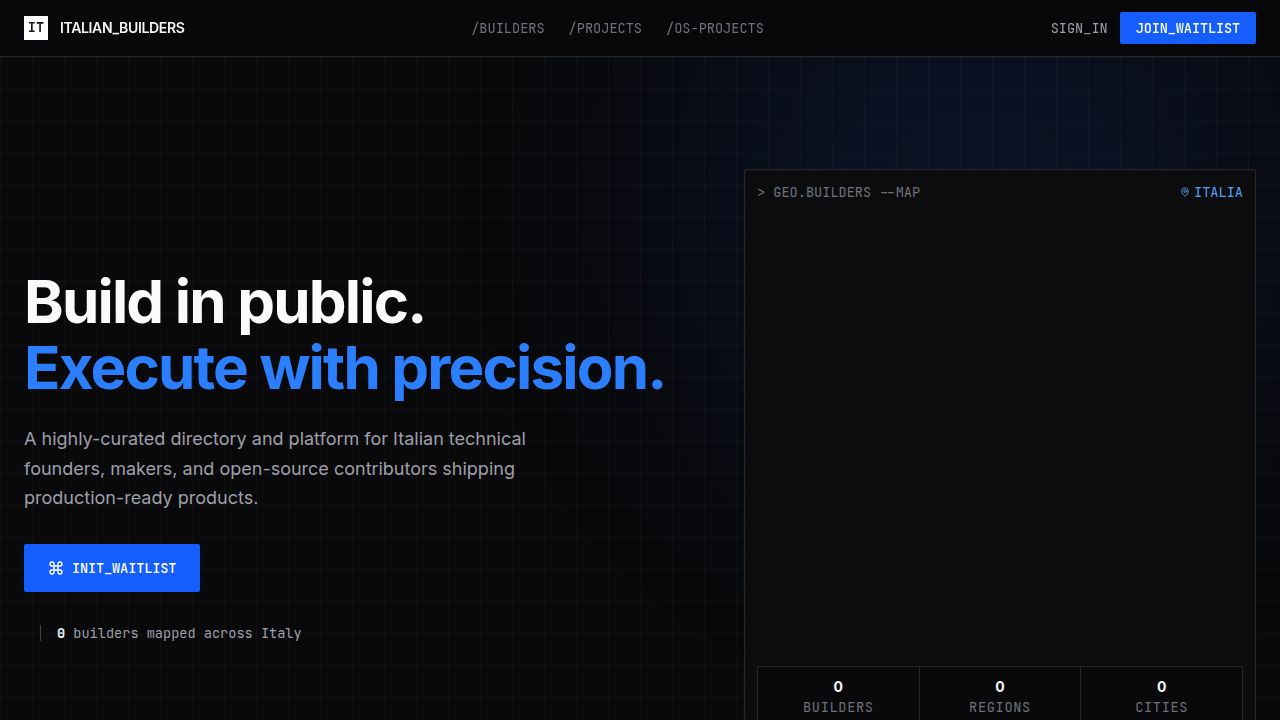
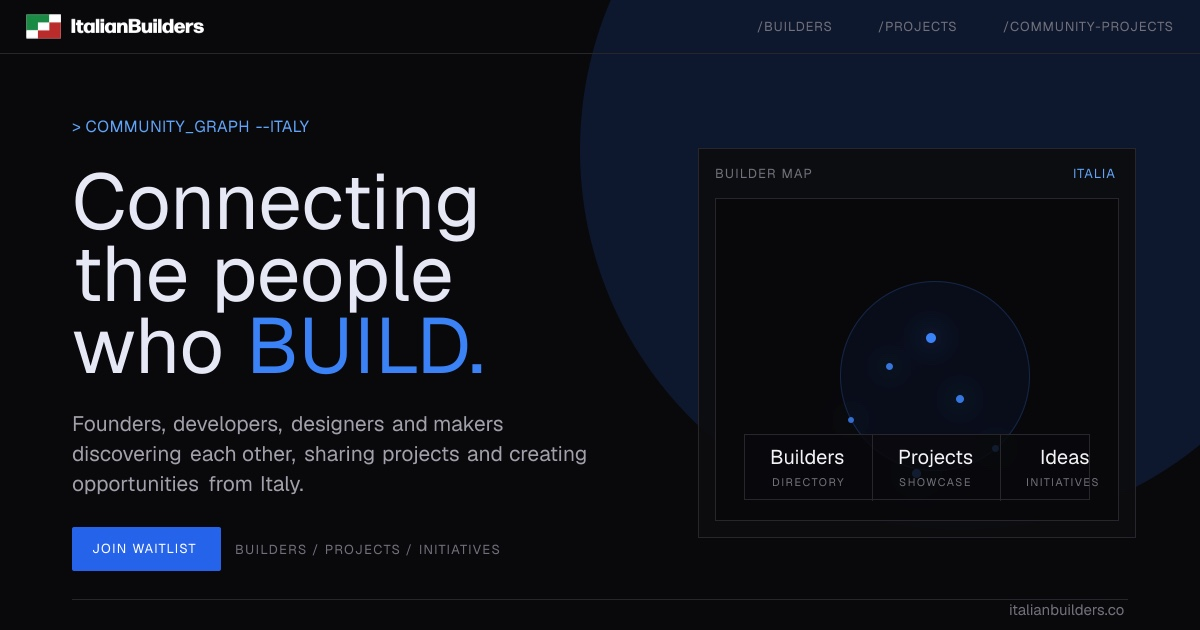
Refresh Italian Builders homepage branding

diff --git a/artifacts/italian-builders/src/index.css b/artifacts/italian-builders/src/index.css
@@ -1,4 +1,4 @@
-@import url('https://fonts.googleapis.com/css2?family=JetBrains+Mono:wght@400;500;700&family=Inter:wght@400;500;600;700&display=swap');
+@import url("https://use.typekit.net/kkh2lui.css");
 @import "tailwindcss";
 @import "tw-animate-css";
 @plugin "@tailwindcss/typography";
@@ -137,9 +137,9 @@
   --chart-4: 43 74% 66%;
   --chart-5: 27 87% 67%;
 
-  --app-font-sans: 'Inter', sans-serif;
+  --app-font-sans: "forma-djr-display", Inter, sans-serif;
   --app-font-serif: Georgia, serif;
-  --app-font-mono: 'JetBrains Mono', monospace;
+  --app-font-mono: "forma-djr-mono", "JetBrains Mono", monospace;
   --radius: .5rem;
   --shadow-2xs: 0px 2px 0px 0px hsl(202.8169 89.1213% 53.1373% / 0.00);
   --shadow-xs: 0px 2px 0px 0px hsl(202.8169 89.1213% 53.1373% / 0.00);
@@ -215,24 +215,50 @@
 }
 
 .dark-technical-theme {
-  font-family: 'Inter', sans-serif;
+  font-family: "forma-djr-display", Inter, sans-serif;
   background-color: #09090b;
   color: #e4e4e7;
   -webkit-font-smoothing: antialiased;
 }
 
+.dark-technical-theme,
+.dark-technical-theme button,
+.dark-technical-theme input,
+.dark-technical-theme select,
+.dark-technical-theme textarea {
+  font-family: "forma-djr-display", Inter, sans-serif;
+}
+
 .dark-technical-theme h1,
-.dark-technical-theme h2,
+.dark-technical-theme h2 {
+  font-family: "forma-djr-display", Inter, sans-serif;
+  font-weight: 900;
+  letter-spacing: 0;
+}
+
 .dark-technical-theme h3,
 .dark-technical-theme h4,
 .dark-technical-theme h5 {
-  font-family: 'Inter', sans-serif;
-  letter-spacing: -0.03em;
+  font-family: "forma-djr-display", Inter, sans-serif;
+  font-weight: 700;
+  letter-spacing: 0;
 }
 
 .dark-technical-theme .font-mono {
-  font-family: 'JetBrains Mono', monospace;
+  font-family: "forma-djr-mono", "JetBrains Mono", monospace;
   font-size: 0.85em;
+}
+
+.dt-logo {
+  display: block;
+  height: 28px;
+  width: auto;
+}
+
+.dt-logo-footer {
+  display: block;
+  height: 24px;
+  width: auto;
 }
 
 .dt-grid-bg {
@@ -270,6 +296,15 @@
   font-weight: 600;
 }
 
+.dt-tag,
+.dt-badge {
+  font-family: "gridlite-pe-variable", "forma-djr-mono", sans-serif;
+  font-variation-settings: "BACK" 1, "ELSH" 3, "RECT" 1, "wght" 900;
+  font-weight: 900;
+  letter-spacing: 0.06em;
+  text-transform: uppercase;
+}
+
 .dt-scrollbar::-webkit-scrollbar {
   width: 4px;
   height: 4px;
@@ -303,4 +338,3 @@
     pointer-events: none;
   }
 }
-

diff --git a/artifacts/italian-builders/src/pages/Home.tsx b/artifacts/italian-builders/src/pages/Home.tsx
@@ -325,15 +325,12 @@ export function Header() {
   return (
     <header className="sticky top-0 z-50 w-full border-b border-zinc-800 bg-zinc-950/90 backdrop-blur-sm">
       <div className="container mx-auto px-4 md:px-6 h-14 flex items-center justify-between">
-        <a href="/" className="flex items-center gap-3">
-          <div className="w-6 h-6 bg-white text-zinc-900 flex items-center justify-center font-mono text-xs font-bold leading-none">
-            IT
-          </div>
-          <span
-            className={`font-semibold text-sm tracking-tight text-zinc-100 ${techLabels ? "uppercase" : ""}`}
-          >
-            {techLabels ? "Italian Builders" : "Italian Builders"}
-          </span>
+        <a href="/" className="flex items-center">
+          <img
+            src="/logo-vector.svg"
+            alt="Italian Builders"
+            className="dt-logo"
+          />
         </a>
 
         {/* Desktop Nav */}
@@ -949,12 +946,12 @@ function Hero({ content }: { content: HomeDatabaseContent }) {
       <div className="container mx-auto px-4 md:px-6 relative z-10">
         <div className="flex flex-col lg:flex-row gap-12 xl:gap-16 items-center">
           <div className="flex-1 lg:flex-[0.9] max-w-2xl">
-            <h1 className="text-4xl md:text-6xl font-bold text-zinc-50 mb-6 leading-[1.1] tracking-tight">
-              The home of Italian Builders.
+            <h1 className="text-[4.25rem] md:text-[7.5rem] font-black text-zinc-100 mb-8 leading-[0.92]">
+              Connecting
               <br />
-              <span className="text-blue-500">
-                Connecting the people who build.
-              </span>
+              the people
+              <br />
+              who <span className="text-blue-500 uppercase">build.</span>
             </h1>
 
             <p className="text-base md:text-lg text-zinc-400 mb-8 max-w-xl leading-relaxed">
@@ -1193,7 +1190,7 @@ export function FeaturedBuilders({
                     {profileTags(profile).map((tag) => (
                       <span
                         key={tag}
-                        className="px-1.5 py-0.5 border border-zinc-800 bg-zinc-900 text-[10px] font-mono font-medium text-zinc-400 uppercase rounded-sm"
+                        className="dt-tag px-1.5 py-0.5 border border-zinc-800 bg-zinc-900 text-[10px] text-zinc-400 rounded-sm"
                       >
                         {tag}
                       </span>
@@ -1285,7 +1282,7 @@ export function BuilderProjects({
                 setActive(cat);
                 setShowAll(false);
               }}
-              className={`px-3 py-1 text-xs font-mono uppercase border transition-colors flex-shrink-0 rounded-sm ${
+              className={`dt-tag px-3 py-1 text-xs border transition-colors flex-shrink-0 rounded-sm ${
                 active === cat
                   ? "bg-blue-600 text-white border-blue-600"
                   : "bg-zinc-950 text-zinc-400 border-zinc-800 hover:border-zinc-600"
@@ -1324,7 +1321,7 @@ export function BuilderProjects({
                   )}
                   <div className="absolute top-2 right-2">
                     <span
-                      className={`px-2 py-1 text-[10px] font-mono font-bold uppercase border rounded-sm ${statusColor(project.status)} backdrop-blur-sm`}
+                      className={`dt-tag px-2 py-1 text-[10px] border rounded-sm ${statusColor(project.status)} backdrop-blur-sm`}
                     >
                       {project.status}
                     </span>
@@ -1337,7 +1334,7 @@ export function BuilderProjects({
                       {project.name}
                     </h3>
                     {project.category && (
-                      <span className="text-[10px] font-mono text-zinc-500 border border-zinc-800 px-1.5 py-0.5 bg-zinc-900 rounded-sm">
+                      <span className="dt-tag text-[10px] text-zinc-500 border border-zinc-800 px-1.5 py-0.5 bg-zinc-900 rounded-sm">
                         {project.category}
                       </span>
                     )}
@@ -1449,7 +1446,7 @@ export function CommunityProjects({
                     >
                       <Icon size={16} />
                     </div>
-                    <span className="text-[10px] font-mono border border-zinc-800 bg-zinc-900 px-1.5 py-0.5 text-zinc-500 uppercase rounded-sm">
+                    <span className="dt-tag text-[10px] border border-zinc-800 bg-zinc-900 px-1.5 py-0.5 text-zinc-500 rounded-sm">
                       {project.status}
                     </span>
                   </div>
@@ -1464,7 +1461,7 @@ export function CommunityProjects({
                   </p>
 
                   <div className="flex items-center justify-between text-xs font-mono text-zinc-500 pt-4 border-t border-zinc-800">
-                    <span className="uppercase">
+                    <span className="dt-tag">
                       {project.category || "Community"}
                     </span>
                     <span className="text-blue-400 font-semibold group-hover:underline flex items-center gap-1">
@@ -1991,15 +1988,12 @@ export function Footer() {
           className={`grid grid-cols-2 md:grid-cols-4 lg:grid-cols-5 gap-8 mb-12 ${techLabels ? "font-mono text-xs" : "text-sm"}`}
         >
           <div className="col-span-2 lg:col-span-2">
-            <div className="flex items-center gap-2 mb-4 text-white">
-              <div className="w-5 h-5 bg-white text-zinc-900 flex items-center justify-center text-[10px] font-bold">
-                IT
-              </div>
-              <span
-                className={`font-semibold ${techLabels ? "uppercase tracking-wider" : ""}`}
-              >
-                {techLabels ? "Italian Builders" : "Italian Builders"}
-              </span>
+            <div className="flex items-center mb-4 text-white">
+              <img
+                src="/logo-vector.svg"
+                alt="Italian Builders"
+                className="dt-logo-footer"
+              />
             </div>
             <p className="text-zinc-500 mb-6 max-w-xs leading-relaxed">
               {techLabels

diff --git a/artifacts/italian-builders/index.html b/artifacts/italian-builders/index.html
@@ -9,32 +9,28 @@
     <title>Italian Builders</title>
     <meta
       name="description"
-      content="Discover founders, makers, technical contributors, and operators building from Italy."
+      content="Italian Builders helps founders, developers, designers and makers discover each other, share projects and create opportunities."
     />
     <meta name="robots" content="index, follow" />
     <meta property="og:title" content="Italian Builders" />
     <meta
       property="og:description"
-      content="Discover founders, makers, technical contributors, and operators building from Italy."
+      content="Italian Builders helps founders, developers, designers and makers discover each other, share projects and create opportunities."
     />
     <meta property="og:type" content="website" />
-    <meta property="og:image" content="/opengraph.png" />
+    <meta property="og:image" content="/opengraph.jpg" />
+    <meta property="og:image:type" content="image/jpeg" />
     <meta property="og:image:width" content="1200" />
     <meta property="og:image:height" content="630" />
     <meta name="twitter:card" content="summary_large_image" />
     <meta name="twitter:title" content="Italian Builders" />
     <meta
       name="twitter:description"
-      content="Discover founders, makers, technical contributors, and operators building from Italy."
+      content="Italian Builders helps founders, developers, designers and makers discover each other, share projects and create opportunities."
     />
-    <meta name="twitter:image" content="/opengraph.png" />
+    <meta name="twitter:image" content="/opengraph.jpg" />
     <link rel="icon" type="image/svg+xml" href="/favicon.svg" />
-    <link rel="preconnect" href="https://fonts.googleapis.com" />
-    <link rel="preconnect" href="https://fonts.gstatic.com" crossorigin />
-    <link
-      href="https://fonts.googleapis.com/css2?family=Inter:wght@400;500;600;700&display=swap"
-      rel="stylesheet"
-    />
+    <link rel="stylesheet" href="https://use.typekit.net/kkh2lui.css" />
   </head>
   <body>
     <div id="root"></div>